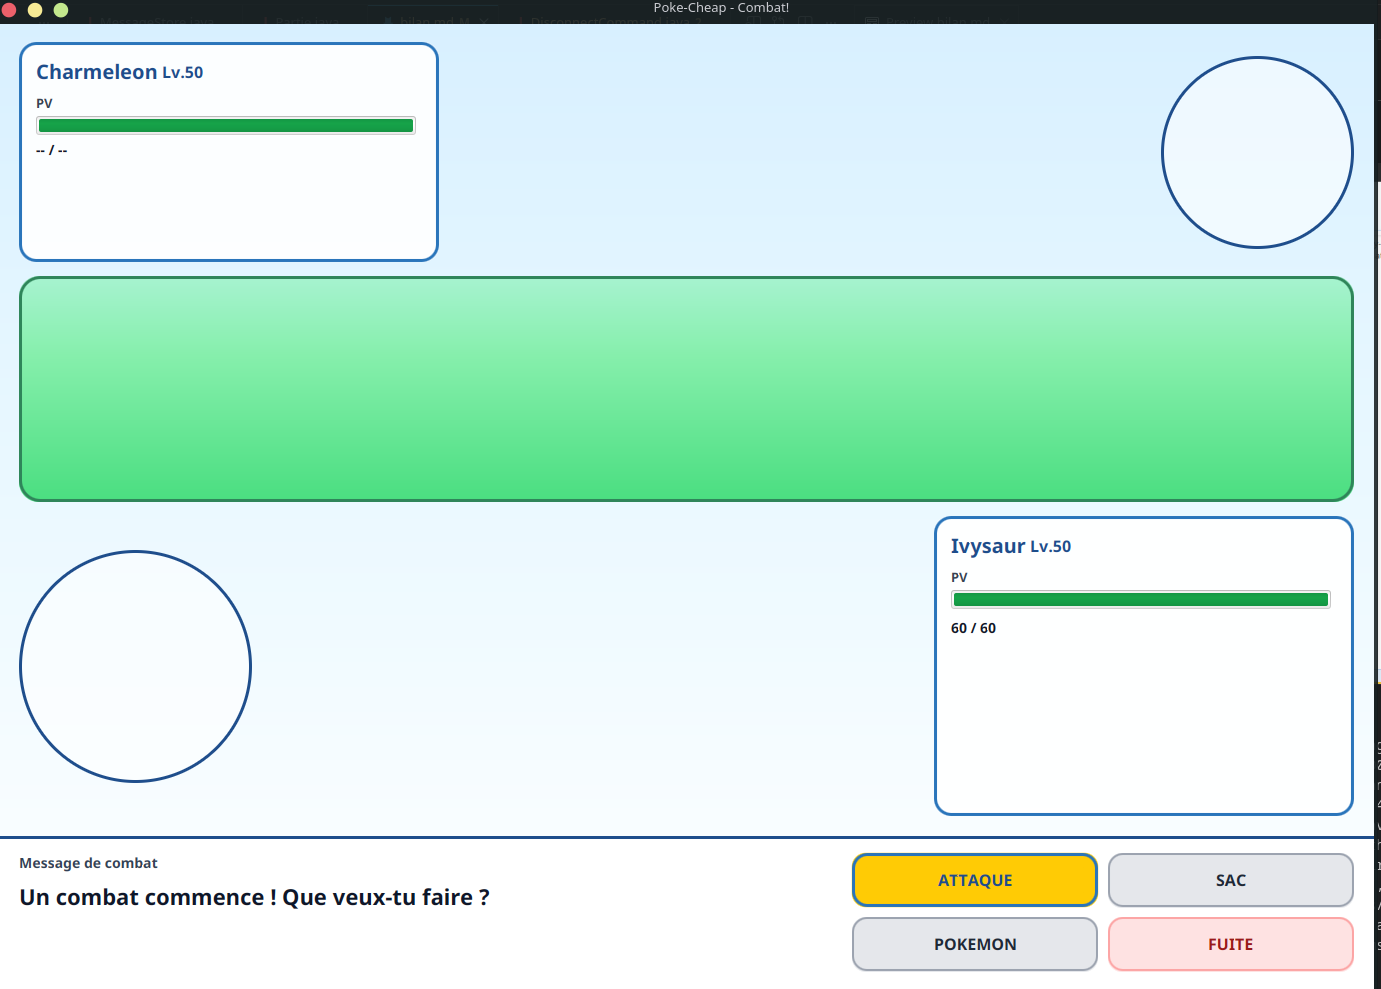
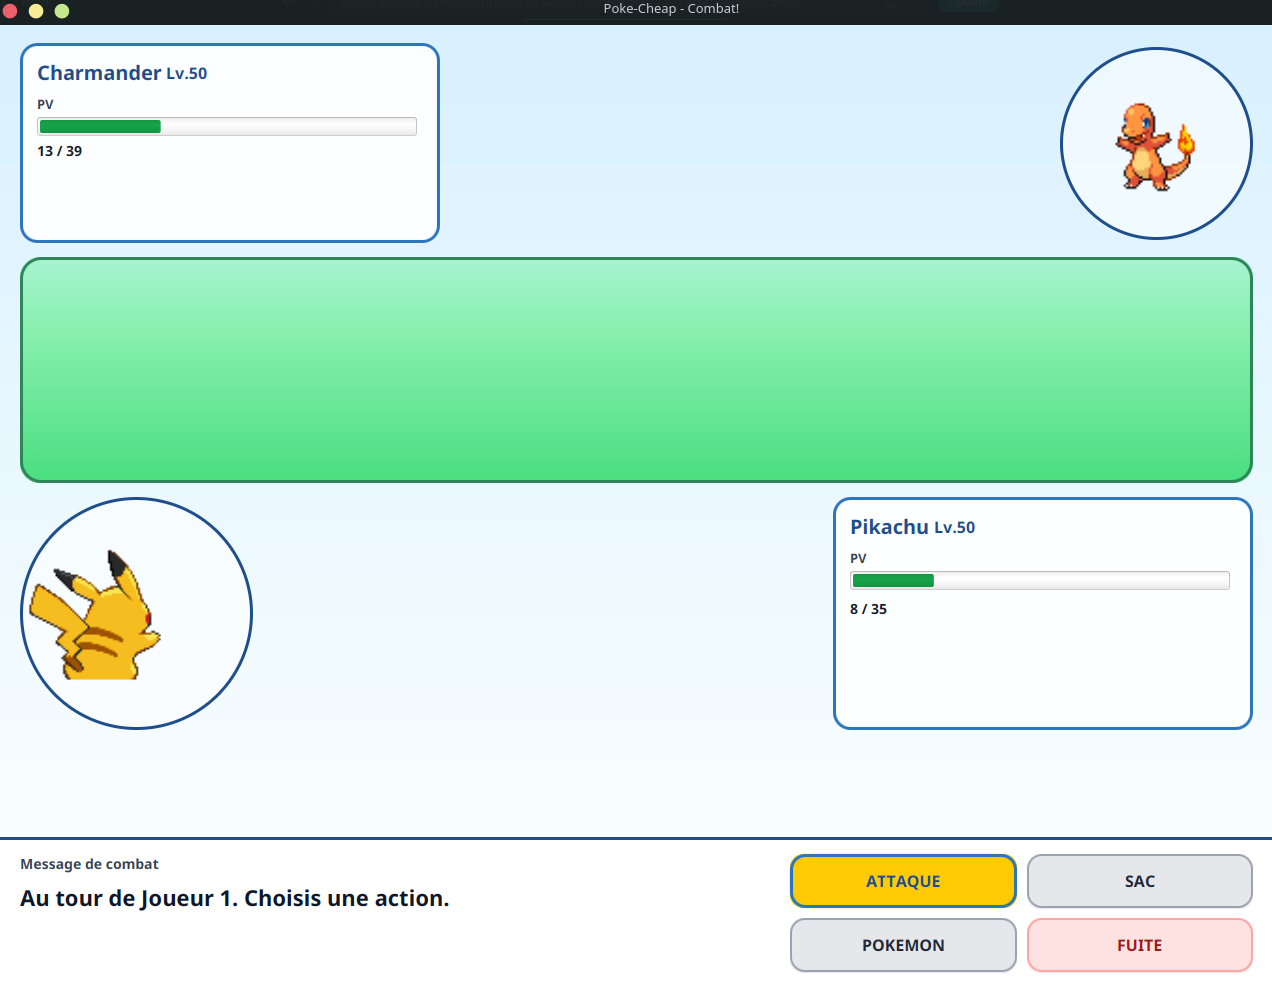
Feat: finally have two sprites

diff --git a/src/main/java/fr/cpe/Controller/BattleController.java b/src/main/java/fr/cpe/Controller/BattleController.java
@@ -174,10 +174,20 @@ public class BattleController {
     private String resolveSpritePath(String rawPath) {
         String normalized = rawPath.startsWith("/") ? rawPath : "/fr/cpe/" + rawPath;
 
+        // Tentative directe
         if (getClass().getResource(normalized) != null) {
             return normalized;
         }
 
+        // Fallback : ajouter _back avant l'extension (pour les sprites de dos)
+        if (normalized.endsWith(".png")) {
+            String withBackSuffix = normalized.substring(0, normalized.length() - 4) + "_back.png";
+            if (getClass().getResource(withBackSuffix) != null) {
+                return withBackSuffix;
+            }
+        }
+
+        // Fallback : ajouter _mini avant l'extension
         if (normalized.endsWith(".png") && !normalized.endsWith("_mini.png")) {
             String withMiniSuffix = normalized.substring(0, normalized.length() - 4) + "_mini.png";
             if (getClass().getResource(withMiniSuffix) != null) {

diff --git a/docs/bilan.md b/docs/bilan.md
@@ -30,13 +30,21 @@ L'objectif du projet était de reproduire un système de combat pokemon, notamme
 ![Choisir les attaques du pokemon](images/launchAttack.png)
 
 ### Fonctionnalité 8 — *Système de tour par tour*
-
+![Choisir les attaques du pokemon](images/tourpartour.png)
 
 ## Ce qui n'a pas été livré (et pourquoi)
 
 ### Système en ligne via le Bus Azure
 
+Le système de Bus Azure a été capricieux tout au long du projet. La fonctionnalité était complexe à intégrer, et demandait beaucoup plus de debogage que prévu. Nous avons donc dû passer sur une version hors ligne, avec une seule interface pour les deux joueurs.
+
+A noter cependant que le système hors ligne utilise la même structure de code que la version avec le bus. De plus, nous avons laisser l'ensemble des éléments permettant de réaliser la version en ligne. Ainsi, le développement de cette fonctionnalité à l'avenir est garanti et prendra seulement un peu plus de temps.
+
 ### Les actions "Use Item", "Change Pokemon" et "Fuite"
+
+### Detection d'un pokemon KO
+
+### Ajout de musique / bruitage
 
 ## Perspectives
 
